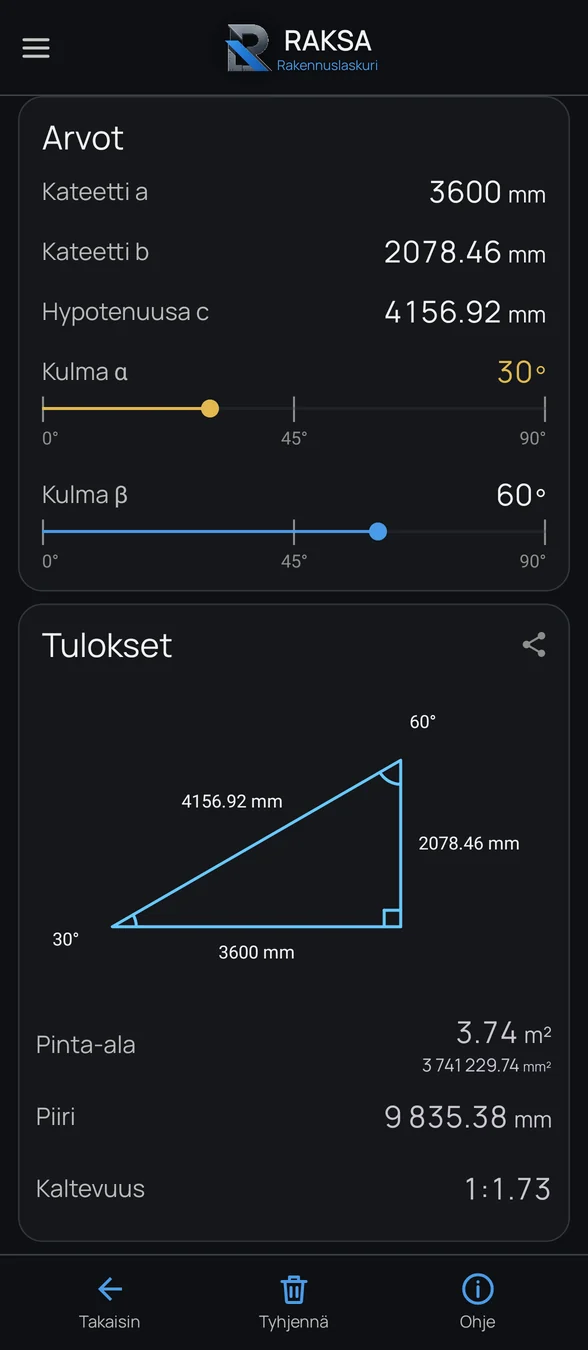
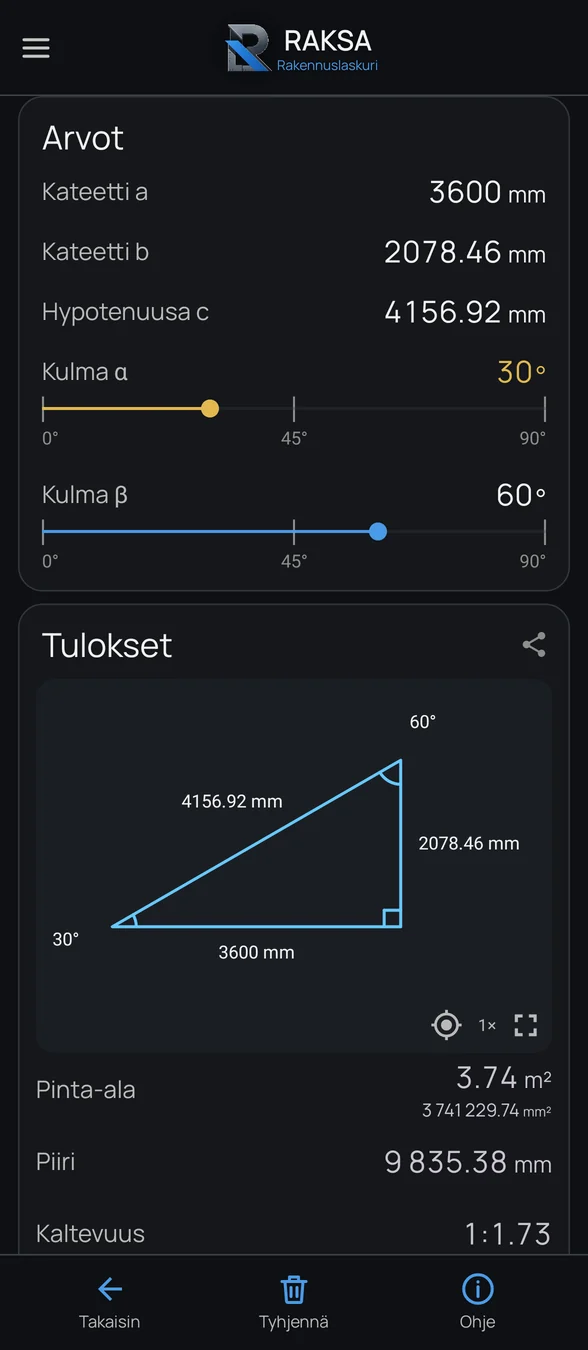
Update website to app version 1.3.14
- Home: new "03 Pinta-alat / Areas" tool card (room shapes, named
  openings, interactive 3D view), keypad calculations feature, triangle
  zoom/full screen, planned list now Volumes and Material usage
- New screenshots rendered from app 1.3.14 for all three calculators
  (FI/EN, light/dark); social preview shows the three tools
- Privacy: areas works offline; entered calculations listed among
  processed data; last-updated 20.11.2026
- Support: problem report mentions areas and its room shape
- Version 1.3.14 in footers, script and privacy metadata; features grid
  balanced to three columns on wide screens

Claude-Session: https://claude.ai/code/session_01RPndgq7MaFfFhrsPx3GJA2

Changed region(s): [[0.6429, 0.7467, 0.949, 0.9333], [0.0612, 0.7467, 0.2449, 0.9333], [0.1837, 0.7467, 0.2143, 0.8089]]

diff --git a/raksa/privacy.html b/raksa/privacy.html
@@ -13,7 +13,7 @@
 <link rel="icon" type="image/png" sizes="192x192" href="assets/icon-192.png">
 <link rel="apple-touch-icon" href="assets/apple-touch-icon.png">
 <link rel="preload" href="assets/fonts/manrope-regular.woff2" as="font" type="font/woff2" crossorigin>
-<link rel="stylesheet" href="style.css?v=26">
+<link rel="stylesheet" href="style.css?v=27">
 <meta property="og:type" content="website">
 <meta property="og:site_name" content="Raksa">
 <meta property="og:title" content="Raksa | Tietosuojaseloste" data-i18n-content="privacyPageTitle">
@@ -21,7 +21,7 @@
 <meta property="og:url" content="https://www.rikalo.fi/raksa/privacy.html">
 <meta property="og:image" content="https://www.rikalo.fi/raksa/assets/social-preview.png">
 <meta name="twitter:card" content="summary_large_image">
-<script src="site.js?v=26" defer></script>
+<script src="site.js?v=27" defer></script>
 </head>
 <body data-page="privacy">
 <a class="skip" href="#main" data-i18n="skip">Siirry sisältöön</a>
@@ -57,8 +57,8 @@
     <p class="lead" data-i18n="privacyLead">Raksa-Android-sovelluksen ja tämän verkkosivun tietojen käsittely</p>
     <dl class="privacy-meta">
       <div><dt data-i18n="metaPackage">Pakettitunnus</dt><dd>fi.rikalo.raksa</dd></div>
-      <div><dt data-i18n="metaVersion">Sovellusversio</dt><dd>1.2.822</dd></div>
-      <div><dt data-i18n="metaUpdated">Päivitetty</dt><dd><time datetime="2026-11-18">18.11.2026</time></dd></div>
+      <div><dt data-i18n="metaVersion">Sovellusversio</dt><dd>1.3.14</dd></div>
+      <div><dt data-i18n="metaUpdated">Päivitetty</dt><dd><time datetime="2026-11-20">20.11.2026</time></dd></div>
     </dl>
   </div>
 
@@ -67,13 +67,13 @@
 
     <section id="yhteystiedot"><h2>1. Rekisterinpitäjä ja yhteystiedot</h2><p>Raksa-sovelluksen tietojen käsittelystä vastaa sovelluksen kehittäjä. Kehittäjän nimi ja sähköpostiosoite tietosuojakysymyksiä varten:</p><p data-contact="controller"><button type="button" class="reveal">Näytä yhteystiedot</button></p><p>Verkkosivu: <a href="https://www.rikalo.fi/raksa/">https://www.rikalo.fi/raksa/</a></p><noscript><p>Yhteystiedot näkyvät, kun JavaScript on käytössä.</p></noscript></section>
 
-    <section><h2>2. Sovelluksen käsittelemät tiedot</h2><p>Raksa käsittelee vain sovelluksen toimintaan tarvittavia tietoja:</p><ul><li>laskureihin syötetyt arvot ja laskinten tila</li><li>asetukset: mittayksikkö, desimaalit, teema, kieli ja mitoituksen asetukset</li><li>tieto siitä, että olet hyväksynyt automaattisen käännöksen huomautuksen</li><li>automaattisesti käännetyn kielen käännetyt sovellustekstit.</li></ul><p>Sovellus ei pyydä nimeä, sähköpostiosoitetta, sijaintia, yhteystietoja tai muita henkilötietoja, eikä siinä ole käyttäjätiliä.</p></section>
+    <section><h2>2. Sovelluksen käsittelemät tiedot</h2><p>Raksa käsittelee vain sovelluksen toimintaan tarvittavia tietoja:</p><ul><li>laskureihin syötetyt arvot, kenttiin kirjoitetut laskut ja laskinten tila</li><li>asetukset: mittayksikkö, desimaalit, teema, kieli ja mitoituksen asetukset</li><li>tieto siitä, että olet hyväksynyt automaattisen käännöksen huomautuksen</li><li>automaattisesti käännetyn kielen käännetyt sovellustekstit.</li></ul><p>Sovellus ei pyydä nimeä, sähköpostiosoitetta, sijaintia, yhteystietoja tai muita henkilötietoja, eikä siinä ole käyttäjätiliä.</p></section>
 
     <section><h2>3. Paikallinen tallennus</h2><p>Tiedot tallennetaan sovelluksen yksityiseen tallennustilaan laitteessa:</p><ul><li>asetukset, kielivalinta ja laskinten tila</li><li>automaattisesti käännetyn kielen käännetyt sovellustekstit</li><li>ML Kitin kielimalli (noin 30 Mt), jota ML Kit hallitsee</li><li>jaettava tuloskuva sovelluksen väliaikaisessa välimuistissa.</li></ul></section>
 
     <section><h2>4. Android-käyttöoikeudet</h2><p>Sovellus käyttää kahta tavallista käyttöoikeutta, joita Android ei kysy erikseen:</p><ul><li><strong>Internet</strong> (INTERNET): automaattisesti käännetyn kielen kielimallin lataus ja ML Kitin diagnostiikka</li><li><strong>Verkon tila</strong> (ACCESS_NETWORK_STATE): verkkoyhteyden tarkistus ennen kielimallin latausta.</li></ul><p>Sovellus ei pyydä sijainti-, kamera-, mikrofoni-, yhteystieto-, tiedosto-, ilmoitus- tai tilioikeuksia.</p></section>
 
-    <section><h2>5. Verkkoyhteys ja Google ML Kit Translation</h2><p>Kolmiolaskin, Mitoitus, suomi, englanti, asetukset, tallennus, kopiointi ja jakaminen toimivat ilman verkkoyhteyttä.</p><p>Suomi ja englanti ovat sovelluksen omia käännöksiä. Muut kielet käännetään automaattisesti Google ML Kit Translation -kirjastolla (käännökset tuottaa Google Translate). Kun valitset tällaisen kielen, sovellus näyttää ensin huomautuksen. Hyväksynnän jälkeen kielimalli ladataan Googlen palvelimilta kerran, mikä vaatii verkkoyhteyden. Käännös tehdään laitteessa, ja vain sovelluksen omat tekstit käännetään. Laskenta- ja mittaustietoja tai syöttämiäsi arvoja ei lähetetä käännettäväksi.</p><p>ML Kit kerää käännöstoiminnon yhteydessä diagnostiikka- ja käyttötietoja ja lähettää ne Googlelle. Googlen ilmoituksen mukaan tietoja ovat esimerkiksi laitetiedot (valmistaja, malli ja käyttöjärjestelmän versio), sovelluksen pakettinimi ja versio, asennuskohtaiset tunnisteet, suorituskykymittarit, tapahtumatyypit ja virhekoodit sekä valitut lähde- ja kohdekielet. Googlen mukaan tiedot salataan siirron aikana (HTTPS), eikä niitä luovuteta kolmansille osapuolille. Google käsittelee tietoja omien ehtojensa mukaisesti; lisätietoja: <a href="https://developers.google.com/ml-kit/android-data-disclosure">ML Kitin tietojen käsittely</a> ja <a href="https://developers.google.com/ml-kit/terms">ML Kitin käyttöehdot</a>.</p></section>
+    <section><h2>5. Verkkoyhteys ja Google ML Kit Translation</h2><p>Kolmiolaskin, Mitoitus, Pinta-alat, suomi, englanti, asetukset, tallennus, kopiointi ja jakaminen toimivat ilman verkkoyhteyttä.</p><p>Suomi ja englanti ovat sovelluksen omia käännöksiä. Muut kielet käännetään automaattisesti Google ML Kit Translation -kirjastolla (käännökset tuottaa Google Translate). Kun valitset tällaisen kielen, sovellus näyttää ensin huomautuksen. Hyväksynnän jälkeen kielimalli ladataan Googlen palvelimilta kerran, mikä vaatii verkkoyhteyden. Käännös tehdään laitteessa, ja vain sovelluksen omat tekstit käännetään. Laskenta- ja mittaustietoja tai syöttämiäsi arvoja ei lähetetä käännettäväksi.</p><p>ML Kit kerää käännöstoiminnon yhteydessä diagnostiikka- ja käyttötietoja ja lähettää ne Googlelle. Googlen ilmoituksen mukaan tietoja ovat esimerkiksi laitetiedot (valmistaja, malli ja käyttöjärjestelmän versio), sovelluksen pakettinimi ja versio, asennuskohtaiset tunnisteet, suorituskykymittarit, tapahtumatyypit ja virhekoodit sekä valitut lähde- ja kohdekielet. Googlen mukaan tiedot salataan siirron aikana (HTTPS), eikä niitä luovuteta kolmansille osapuolille. Google käsittelee tietoja omien ehtojensa mukaisesti; lisätietoja: <a href="https://developers.google.com/ml-kit/android-data-disclosure">ML Kitin tietojen käsittely</a> ja <a href="https://developers.google.com/ml-kit/terms">ML Kitin käyttöehdot</a>.</p></section>
 
     <section><h2>6. Kopiointi ja tulosten jakaminen</h2><p>Kun napautat tulosarvoa, Raksa kopioi luvun Androidin leikepöydälle. Leikepöytää hallitsee käyttöjärjestelmä.</p><p>Kun valitset tulosten jakamisen, Raksa piirtää tuloskortista kuvan sovelluksen väliaikaiseen välimuistiin ja avaa Androidin jakovalikon. Kuva siirtyy vain valitsemaasi sovellukseen tai palveluun, ja siihen sovelletaan sen ehtoja. Raksa ei lähetä kuvaa itse.</p></section>
 
@@ -95,13 +95,13 @@
 
     <section id="contact"><h2>1. Controller and contact</h2><p>The developer of the app is responsible for Raksa's data handling. The developer's name and email address for privacy questions:</p><p data-contact="controller"><button type="button" class="reveal">Show contact details</button></p><p>Website: <a href="https://www.rikalo.fi/raksa/">https://www.rikalo.fi/raksa/</a></p><noscript><p>Contact details are shown when JavaScript is enabled.</p></noscript></section>
 
-    <section><h2>2. Data processed by the app</h2><p>Raksa processes only the information the app needs to work:</p><ul><li>values entered in the calculators and calculator state</li><li>settings: measurement unit, decimal places, theme, language and dimensioning settings</li><li>a record that you have accepted the automatic translation notice</li><li>the translated app texts for an automatically translated language.</li></ul><p>The app does not ask for your name, email address, location, contacts or other personal data, and it has no user account.</p></section>
+    <section><h2>2. Data processed by the app</h2><p>Raksa processes only the information the app needs to work:</p><ul><li>values and calculations entered in the calculators, and calculator state</li><li>settings: measurement unit, decimal places, theme, language and dimensioning settings</li><li>a record that you have accepted the automatic translation notice</li><li>the translated app texts for an automatically translated language.</li></ul><p>The app does not ask for your name, email address, location, contacts or other personal data, and it has no user account.</p></section>
 
     <section><h2>3. Local storage</h2><p>The information is stored in the app's private storage on the device:</p><ul><li>settings, language choice and calculator state</li><li>the translated app texts for an automatically translated language</li><li>the ML Kit language model (about 30 MB), managed by ML Kit</li><li>a shareable result image in the app's temporary cache.</li></ul></section>
 
     <section><h2>4. Android permissions</h2><p>The app uses two normal permissions that Android does not ask you about separately:</p><ul><li><strong>Internet</strong> (INTERNET): downloading the language model for an automatically translated language, and ML Kit diagnostics</li><li><strong>Network state</strong> (ACCESS_NETWORK_STATE): checking the connection before the language model is downloaded.</li></ul><p>The app does not request location, camera, microphone, contacts, file, notification or account permissions.</p></section>
 
-    <section><h2>5. Network use and Google ML Kit Translation</h2><p>The triangle calculator, dimensioning, Finnish, English, settings, saving, copying and sharing all work without an internet connection.</p><p>Finnish and English are the app's own translations. Other languages are translated automatically with the Google ML Kit Translation library (translations powered by Google Translate). When you choose such a language, the app first shows a notice. After you accept it, the language model is downloaded from Google's servers once, which requires a network connection. Translation happens on the device, and only the app's own texts are translated. Calculation and measurement data and the values you enter are not sent for translation.</p><p>In connection with the translation feature, ML Kit collects diagnostic and usage data and sends it to Google. According to Google, this includes device information (manufacturer, model and operating system version), the app's package name and version, per-installation identifiers, performance metrics, event types and error codes, and the selected source and target languages. According to Google, the data is encrypted in transit (HTTPS) and is not transferred to third parties. Google processes the data under its own terms; more information: <a href="https://developers.google.com/ml-kit/android-data-disclosure">ML Kit data disclosure</a> and <a href="https://developers.google.com/ml-kit/terms">ML Kit Terms of Service</a>.</p></section>
+    <section><h2>5. Network use and Google ML Kit Translation</h2><p>The triangle calculator, dimensioning, areas, Finnish, English, settings, saving, copying and sharing all work without an internet connection.</p><p>Finnish and English are the app's own translations. Other languages are translated automatically with the Google ML Kit Translation library (translations powered by Google Translate). When you choose such a language, the app first shows a notice. After you accept it, the language model is downloaded from Google's servers once, which requires a network connection. Translation happens on the device, and only the app's own texts are translated. Calculation and measurement data and the values you enter are not sent for translation.</p><p>In connection with the translation feature, ML Kit collects diagnostic and usage data and sends it to Google. According to Google, this includes device information (manufacturer, model and operating system version), the app's package name and version, per-installation identifiers, performance metrics, event types and error codes, and the selected source and target languages. According to Google, the data is encrypted in transit (HTTPS) and is not transferred to third parties. Google processes the data under its own terms; more information: <a href="https://developers.google.com/ml-kit/android-data-disclosure">ML Kit data disclosure</a> and <a href="https://developers.google.com/ml-kit/terms">ML Kit Terms of Service</a>.</p></section>
 
     <section><h2>6. Copying and sharing results</h2><p>When you tap a result value, Raksa copies the number to the Android clipboard. The clipboard is managed by the operating system.</p><p>When you choose to share results, Raksa draws an image of the result card into the app's temporary cache and opens the Android share sheet. The image goes only to the app or service you choose, and that recipient's terms apply. Raksa does not send the image itself.</p></section>
 
@@ -125,7 +125,7 @@
     <a href="./" data-i18n="home">Etusivu</a>
     <a href="support.html" data-i18n="support">Tuki</a>
   </nav>
-  <small><span data-i18n="version">Versio 1.2.822</span> · © 2026 Rikalo</small>
+  <small><span data-i18n="version">Versio 1.3.14</span> · © 2026 Rikalo</small>
 </footer>
 </body>
 </html>

diff --git a/raksa/site.js b/raksa/site.js
@@ -10,23 +10,23 @@
     fi: {
       skip: 'Siirry sisältöön', subtitle: 'Rakennuslaskuri', settings: 'Asetukset', language: 'Kieli', theme: 'Teema',
       system: 'Järjestelmä', light: 'Vaalea', dark: 'Tumma', privacy: 'Tietosuoja', home: 'Etusivu', support: 'Tuki', footerNav: 'Alatunniste',
-      version: 'Versio 1.2.822',
+      version: 'Versio 1.3.14',
       pageTitle: 'Raksa | Rakennuslaskuri',
-      pageDescription: 'Raksa on Android-sovellus suorakulmaisen kolmion laskentaan ja rakennustyön mitoitukseen. Laskimet toimivat ilman verkkoyhteyttä ja käyttäjätiliä.',
-      ogDescription: 'Kolmiolaskin ja mitoitus rakennustyön käytännön tilanteisiin. Laskimet toimivat ilman verkkoyhteyttä.',
-      ogImageAlt: 'Raksa-rakennuslaskurin logo ja mitoitusnäkymä',
+      pageDescription: 'Raksa on Android-sovellus suorakulmaisen kolmion laskentaan, rakennustyön mitoitukseen ja huoneen pinta-aloihin. Laskimet toimivat ilman verkkoyhteyttä ja käyttäjätiliä.',
+      ogDescription: 'Kolmiolaskin, mitoitus ja pinta-alat rakennustyön käytännön tilanteisiin. Laskimet toimivat ilman verkkoyhteyttä.',
+      ogImageAlt: 'Raksa-rakennuslaskurin logo ja pinta-alanäkymä',
       eyebrow: 'Android-sovellus rakentamiseen',
       title: 'Mitat ja jaot selkeästi työmaalla',
-      lead: 'Raksa ratkaisee suorakulmaisen kolmion ja laskee mittapisteet toistuville rakenteille, kuten tolppajaolle ja rimoitukselle. Laskimet toimivat ilman verkkoyhteyttä ja käyttäjätiliä.',
+      lead: 'Raksa ratkaisee suorakulmaisen kolmion, laskee mittapisteet toistuville rakenteille, kuten tolppajaolle ja rimoitukselle, sekä laskee huoneen pinta-alat. Laskimet toimivat ilman verkkoyhteyttä ja käyttäjätiliä.',
       explore: 'Katso työkalut', joinTest: 'Liity testaajaksi',
       status: 'Android 8.0 tai uudempi',
       playComing: 'Tulossa Google Playhin', playGet: 'Lataa Google Playsta',
-      toolsEyebrow: 'Työkalut', toolsTitle: 'Kolmiolaskin ja mitoitus',
+      toolsEyebrow: 'Työkalut', toolsTitle: 'Kolmiolaskin, mitoitus ja pinta-alat',
       triangleTitle: 'Kolmiolaskin',
       triangleText: 'Anna kaksi arvoa, joista ainakin toinen on sivu. Raksa laskee muut sivut, kulmat, pinta-alan, piirin ja kaltevuuden jo kirjoittaessasi.',
       tri1: 'Esimerkiksi ristimitat, kattokaltevuus ja vinotuen pituus',
       tri2: 'Kulmasäädin pysähtyy yleisiin kaltevuuksiin, kuten 1:2 ja 30°',
-      tri3: 'Kolmion kuva näyttää mitat ja kulmat yhdellä silmäyksellä',
+      tri3: 'Kolmion kuvaa voi zoomata ja tarkastella koko näytössä',
       triangleAlt: 'Raksan kolmiolaskin: kateetti 3600 mm ja kulma 30°, tuloksena kolmion kuva, pinta-ala, piiri ja kaltevuus',
       dimTitle: 'Mitoitus',
       dimText: 'Laske mittapisteet ja materiaalien paikat aloituksen, jaon, mitan tai pisteiden määrän perusteella. Tulos päivittyy heti, kun muutat arvoja.',
@@ -34,6 +34,12 @@
       dim2: 'Materiaalin vahvuus, keskitys ja lukittava kokonaismitta',
       dim3: 'Mittajana, jota voi zoomata koko näytössä, ja mittapisteiden lista',
       dimensionsAlt: 'Raksan mitoitus: Mitoitettu-tila, mitta 3000 mm, jako 600 mm ja materiaali 48 mm, tuloksena mittajana ja mittapisteet',
+      areasTitle: 'Pinta-alat',
+      areasText: 'Laske huoneen lattian, katon ja seinien pinta-alat. Valitse huoneen muoto ja anna mitat – kaksi mittaa riittää alkuun.',
+      area1: 'Suorakulmainen, L-muotoinen, pyöreä, vino katto ja harjakatto',
+      area2: 'Ovet, ikkunat ja muut aukot vähennetään nimettävinä aukkoina',
+      area3: '3D-kuva huoneesta: käännä, zoomaa ja muuta mittoja vetämällä',
+      areasAlt: 'Raksan pinta-alat: suorakulmainen huone 4000 × 3000 × 2500 mm, 3D-kuva ja tulokset, lattia ja katto 12 m², seinät 35 m²',
       featuresEyebrow: 'Ominaisuudet', featuresTitle: 'Tehty käytännön työhön',
       f1Title: 'Laskimet ilman verkkoyhteyttä',
       f1Text: 'Laskenta tapahtuu puhelimessa, eikä käyttäjätiliä tarvita. Verkkoyhteys tarvitaan vain, kun otat käyttöön automaattisesti käännetyn kielen.',
@@ -45,9 +51,11 @@
       f4Text: 'Yksiköt millimetreistä kilometreihin, 0–3 desimaalia sekä järjestelmän, vaalea tai tumma teema.',
       f5Title: 'Kielet',
       f5Text: 'Sovellus on suomeksi ja englanniksi. Lisäksi yli 50 kieltä on saatavilla automaattisena käännöksenä, joka voi olla epätarkka.',
+      f6Title: 'Laskut suoraan kenttään',
+      f6Text: 'Raksan oma laskinnäppäimistö: kirjoita kenttään lasku, kuten 2400 ÷ 4 + 15, ja näet tuloksen heti.',
       development: 'Kehitys', grow: 'Raksa kasvaa harkitusti',
       growText: 'Raksaan on tulossa lisää työkaluja. Ne näkyvät jo sovelluksen etusivulla merkinnällä Tulossa.',
-      next1: 'Pinta-alat ja tilavuudet', next2: 'Materiaalimenekit', next3: 'Lisää rakentamisen laskureita ja käytännön työkaluja',
+      next1: 'Tilavuudet', next2: 'Materiaalimenekit', next3: 'Lisää rakentamisen laskureita ja käytännön työkaluja',
       notice: 'Raksa on laskennan ja mitoituksen apuväline. Tarkista syötetyt arvot, tulokset ja kriittiset mitat ennen työn toteuttamista.',
       privacyPageTitle: 'Raksa | Tietosuojaseloste',
       privacyDescription: 'Raksa-Android-sovelluksen ja raksa-verkkosivun tietosuojaseloste.',
@@ -65,23 +73,23 @@
     en: {
       skip: 'Skip to content', subtitle: 'Construction calculator', settings: 'Settings', language: 'Language', theme: 'Theme',
       system: 'System', light: 'Light', dark: 'Dark', privacy: 'Privacy', home: 'Home', support: 'Support', footerNav: 'Footer',
-      version: 'Version 1.2.822',
+      version: 'Version 1.3.14',
       pageTitle: 'Raksa | Construction calculator',
-      pageDescription: 'Raksa is an Android app for right-triangle calculations and construction dimensioning. The calculators work offline and without a user account.',
-      ogDescription: 'Triangle calculator and dimensioning for practical construction work. The calculators work offline.',
-      ogImageAlt: 'Raksa construction calculator logo and dimensioning screen',
+      pageDescription: 'Raksa is an Android app for right-triangle calculations, construction dimensioning and room areas. The calculators work offline and without a user account.',
+      ogDescription: 'Triangle calculator, dimensioning and room areas for practical construction work. The calculators work offline.',
+      ogImageAlt: 'Raksa construction calculator logo and areas screen',
       eyebrow: 'Android app for construction',
       title: 'Clear measurements and layouts on site',
-      lead: 'Raksa solves right triangles and calculates measurement points for repeating structures such as stud and batten spacing. The calculators work offline and without a user account.',
+      lead: 'Raksa solves right triangles, calculates measurement points for repeating structures such as stud and batten spacing, and works out room areas. The calculators work offline and without a user account.',
       explore: 'View the tools', joinTest: 'Become a tester',
       status: 'Android 8.0 or later',
       playComing: 'Coming to Google Play', playGet: 'Get it on Google Play',
-      toolsEyebrow: 'Tools', toolsTitle: 'Triangle calculator and dimensioning',
+      toolsEyebrow: 'Tools', toolsTitle: 'Triangle calculator, dimensioning and areas',
       triangleTitle: 'Triangle calculator',
       triangleText: 'Enter two values, at least one of them a side. Raksa calculates the remaining sides, angles, area, perimeter and slope ratio as you type.',
       tri1: 'For example diagonal checks, roof pitch and brace length',
       tri2: 'The angle slider snaps to common slopes such as 1:2 and 30°',
-      tri3: 'A triangle diagram shows the dimensions and angles at a glance',
+      tri3: 'The triangle diagram can be zoomed and viewed in full screen',
       triangleAlt: 'Raksa triangle calculator: leg 3600 mm and angle 30°, with the triangle diagram, area, perimeter and slope ratio',
       dimTitle: 'Dimensioning',
       dimText: 'Calculate measurement points and material positions from a start, spacing, dimension or number of points. The result updates as soon as you change a value.',
@@ -89,6 +97,12 @@
       dim2: 'Material thickness, centering and a lockable overall dimension',
       dim3: 'A measurement line you can zoom in full screen, and a list of points',
       dimensionsAlt: 'Raksa dimensioning: Dimensioned mode, dimension 3000 mm, spacing 600 mm and material 48 mm, with the measurement line and points',
+      areasTitle: 'Areas',
+      areasText: 'Calculate the floor, ceiling and wall areas of a room. Choose the room shape and enter the dimensions – two dimensions are enough to start.',
+      area1: 'Rectangular, L-shaped, round, sloped roof and gable roof',
+      area2: 'Doors, windows and other openings are subtracted as named openings',
+      area3: 'A 3D view of the room: rotate, zoom and change dimensions by dragging',
+      areasAlt: 'Raksa areas: a rectangular room of 4000 × 3000 × 2500 mm with a 3D view and results, floor and ceiling 12 m², walls 35 m²',
       featuresEyebrow: 'Features', featuresTitle: 'Built for practical work',
       f1Title: 'Calculators work offline',
       f1Text: 'Calculations run on your phone, and no user account is needed. A network connection is needed only when you set up an automatically translated language.',
@@ -100,9 +114,11 @@
       f4Text: 'Units from millimetres to kilometres, 0–3 decimal places, and a system, light or dark theme.',
       f5Title: 'Languages',
       f5Text: 'The app is in Finnish and English. More than 50 other languages are available as automatic translations, which may be inaccurate.',
+      f6Title: 'Calculations in the field',
+      f6Text: 'Raksa\'s own calculator keypad: type a calculation such as 2400 ÷ 4 + 15 into a field and see the result right away.',
       development: 'Development', grow: 'Raksa grows with purpose',
       growText: 'More tools are on the way. They already appear on the app\'s home screen as Coming soon.',
-      next1: 'Areas and volumes', next2: 'Material usage', next3: 'More construction calculators and practical tools',
+      next1: 'Volumes', next2: 'Material usage', next3: 'More construction calculators and practical tools',
       notice: 'Raksa is a calculation and dimensioning aid. Check entered values, results and critical dimensions before carrying out the work.',
       privacyPageTitle: 'Raksa | Privacy Policy',
       privacyDescription: 'Privacy Policy for the Raksa Android app and this website.',

diff --git a/raksa/index.html b/raksa/index.html
@@ -5,7 +5,7 @@
 <meta name="viewport" content="width=device-width,initial-scale=1">
 <script>(function(){var r=document.documentElement,t,l;try{t=localStorage.getItem('raksa-theme');l=localStorage.getItem('raksa-language')}catch(e){}if(t!=='light'&&t!=='dark')t='system';if(l!=='fi'&&l!=='en'){l=(navigator.languages||[navigator.language||'']).some(function(x){return /^fi(\b|-)/i.test(x)})?'fi':'en'}r.dataset.theme=t;r.dataset.resolvedTheme=t==='system'?(matchMedia('(prefers-color-scheme: dark)').matches?'dark':'light'):t;r.lang=l})();</script>
 <title>Raksa | Rakennuslaskuri</title>
-<meta name="description" content="Raksa on Android-sovellus suorakulmaisen kolmion laskentaan ja rakennustyön mitoitukseen. Laskimet toimivat ilman verkkoyhteyttä ja käyttäjätiliä." data-i18n-content="pageDescription">
+<meta name="description" content="Raksa on Android-sovellus suorakulmaisen kolmion laskentaan, rakennustyön mitoitukseen ja huoneen pinta-aloihin. Laskimet toimivat ilman verkkoyhteyttä ja käyttäjätiliä." data-i18n-content="pageDescription">
 <meta name="color-scheme" content="light dark">
 <meta name="theme-color" content="#F5F2EC">
 <link rel="canonical" href="https://www.rikalo.fi/raksa/">
@@ -13,20 +13,20 @@
 <link rel="icon" type="image/png" sizes="192x192" href="assets/icon-192.png">
 <link rel="apple-touch-icon" href="assets/apple-touch-icon.png">
 <link rel="preload" href="assets/fonts/manrope-regular.woff2" as="font" type="font/woff2" crossorigin>
-<link rel="stylesheet" href="style.css?v=26">
+<link rel="stylesheet" href="style.css?v=27">
 <meta property="og:type" content="website">
 <meta property="og:site_name" content="Raksa">
 <meta property="og:title" content="Raksa | Rakennuslaskuri" data-i18n-content="pageTitle">
-<meta property="og:description" content="Kolmiolaskin ja mitoitus rakennustyön käytännön tilanteisiin. Laskimet toimivat ilman verkkoyhteyttä." data-i18n-content="ogDescription">
+<meta property="og:description" content="Kolmiolaskin, mitoitus ja pinta-alat rakennustyön käytännön tilanteisiin. Laskimet toimivat ilman verkkoyhteyttä." data-i18n-content="ogDescription">
 <meta property="og:url" content="https://www.rikalo.fi/raksa/">
 <meta property="og:image" content="https://www.rikalo.fi/raksa/assets/social-preview.png">
 <meta property="og:image:width" content="1200">
 <meta property="og:image:height" content="630">
-<meta property="og:image:alt" content="Raksa-rakennuslaskurin logo ja mitoitusnäkymä" data-i18n-content="ogImageAlt">
+<meta property="og:image:alt" content="Raksa-rakennuslaskurin logo ja pinta-alanäkymä" data-i18n-content="ogImageAlt">
 <meta property="og:locale" content="fi_FI">
 <meta property="og:locale:alternate" content="en_US">
 <meta name="twitter:card" content="summary_large_image">
-<script src="site.js?v=26" defer></script>
+<script src="site.js?v=27" defer></script>
 </head>
 <body data-page="home">
 <a class="skip" href="#main" data-i18n="skip">Siirry sisältöön</a>
@@ -60,7 +60,7 @@
     <div class="hero-text">
       <p class="eyebrow" data-i18n="eyebrow">Android-sovellus rakentamiseen</p>
       <h1 data-i18n="title">Mitat ja jaot selkeästi työmaalla</h1>
-      <p class="lead" data-i18n="lead">Raksa ratkaisee suorakulmaisen kolmion ja laskee mittapisteet toistuville rakenteille, kuten tolppajaolle ja rimoitukselle. Laskimet toimivat ilman verkkoyhteyttä ja käyttäjätiliä.</p>
+      <p class="lead" data-i18n="lead">Raksa ratkaisee suorakulmaisen kolmion, laskee mittapisteet toistuville rakenteille, kuten tolppajaolle ja rimoitukselle, sekä laskee huoneen pinta-alat. Laskimet toimivat ilman verkkoyhteyttä ja käyttäjätiliä.</p>
       <div class="actions">
         <span class="button play-pending" data-play-store><svg class="play-icon" viewBox="0 0 24 24" aria-hidden="true"><path d="M7 4.5v15l12-7.5z"/></svg><span data-i18n="playComing">Tulossa Google Playhin</span></span>
         <a class="button primary" href="beta" data-i18n="joinTest">Liity testaajaksi</a>
@@ -73,7 +73,7 @@
   <section id="tools" class="tools container">
     <div class="section-heading">
       <p class="eyebrow" data-i18n="toolsEyebrow">Työkalut</p>
-      <h2 data-i18n="toolsTitle">Kolmiolaskin ja mitoitus</h2>
+      <h2 data-i18n="toolsTitle">Kolmiolaskin, mitoitus ja pinta-alat</h2>
     </div>
 
     <article class="tool">
@@ -84,7 +84,7 @@
         <ul>
           <li data-i18n="tri1">Esimerkiksi ristimitat, kattokaltevuus ja vinotuen pituus</li>
           <li data-i18n="tri2">Kulmasäädin pysähtyy yleisiin kaltevuuksiin, kuten 1:2 ja 30°</li>
-          <li data-i18n="tri3">Kolmion kuva näyttää mitat ja kulmat yhdellä silmäyksellä</li>
+          <li data-i18n="tri3">Kolmion kuvaa voi zoomata ja tarkastella koko näytössä</li>
         </ul>
       </div>
       <figure class="phone-shot">
@@ -107,6 +107,22 @@
         <img data-shot="dimensions" src="assets/screens/dimensions-light-fi.webp" width="588" height="1350" loading="lazy" decoding="async" alt="Raksan mitoitus: Mitoitettu-tila, mitta 3000 mm, jako 600 mm ja materiaali 48 mm, tuloksena mittajana ja mittapisteet" data-i18n-alt="dimensionsAlt">
       </figure>
     </article>
+
+    <article class="tool">
+      <div class="tool-text">
+        <span class="tool-number">03</span>
+        <h3 data-i18n="areasTitle">Pinta-alat</h3>
+        <p data-i18n="areasText">Laske huoneen lattian, katon ja seinien pinta-alat. Valitse huoneen muoto ja anna mitat – kaksi mittaa riittää alkuun.</p>
+        <ul>
+          <li data-i18n="area1">Suorakulmainen, L-muotoinen, pyöreä, vino katto ja harjakatto</li>
+          <li data-i18n="area2">Ovet, ikkunat ja muut aukot vähennetään nimettävinä aukkoina</li>
+          <li data-i18n="area3">3D-kuva huoneesta: käännä, zoomaa ja muuta mittoja vetämällä</li>
+        </ul>
+      </div>
+      <figure class="phone-shot">
+        <img data-shot="areas" src="assets/screens/areas-light-fi.webp" width="588" height="1350" loading="lazy" decoding="async" alt="Raksan pinta-alat: suorakulmainen huone 4000 × 3000 × 2500 mm, 3D-kuva ja tulokset, lattia ja katto 12 m², seinät 35 m²" data-i18n-alt="areasAlt">
+      </figure>
+    </article>
   </section>
 
   <section class="features container" aria-labelledby="featuresTitle">
@@ -120,6 +136,7 @@
       <li><h3 data-i18n="f3Title">Tallentuu automaattisesti</h3><p data-i18n="f3Text">Arvot ja asetukset ovat tallessa, kun avaat sovelluksen uudelleen. Tyhjennyksen voi perua.</p></li>
       <li><h3 data-i18n="f4Title">Omat asetukset</h3><p data-i18n="f4Text">Yksiköt millimetreistä kilometreihin, 0–3 desimaalia sekä järjestelmän, vaalea tai tumma teema.</p></li>
       <li><h3 data-i18n="f5Title">Kielet</h3><p data-i18n="f5Text">Sovellus on suomeksi ja englanniksi. Lisäksi yli 50 kieltä on saatavilla automaattisena käännöksenä, joka voi olla epätarkka.</p></li>
+      <li><h3 data-i18n="f6Title">Laskut suoraan kenttään</h3><p data-i18n="f6Text">Raksan oma laskinnäppäimistö: kirjoita kenttään lasku, kuten 2400 ÷ 4 + 15, ja näet tuloksen heti.</p></li>
     </ul>
   </section>
 
@@ -130,7 +147,7 @@
       <p data-i18n="growText">Raksaan on tulossa lisää työkaluja. Ne näkyvät jo sovelluksen etusivulla merkinnällä Tulossa.</p>
     </div>
     <ul class="future-list">
-      <li data-i18n="next1">Pinta-alat ja tilavuudet</li>
+      <li data-i18n="next1">Tilavuudet</li>
       <li data-i18n="next2">Materiaalimenekit</li>
       <li data-i18n="next3">Lisää rakentamisen laskureita ja käytännön työkaluja</li>
     </ul>
@@ -147,7 +164,7 @@
     <a href="privacy.html" data-i18n="privacy">Tietosuoja</a>
     <a href="support.html" data-i18n="support">Tuki</a>
   </nav>
-  <small><span data-i18n="version">Versio 1.2.822</span> · © 2026 Rikalo</small>
+  <small><span data-i18n="version">Versio 1.3.14</span> · © 2026 Rikalo</small>
 </footer>
 </body>
 </html>

diff --git a/raksa/support.html b/raksa/support.html
@@ -13,7 +13,7 @@
 <link rel="icon" type="image/png" sizes="192x192" href="assets/icon-192.png">
 <link rel="apple-touch-icon" href="assets/apple-touch-icon.png">
 <link rel="preload" href="assets/fonts/manrope-regular.woff2" as="font" type="font/woff2" crossorigin>
-<link rel="stylesheet" href="style.css?v=26">
+<link rel="stylesheet" href="style.css?v=27">
 <meta property="og:type" content="website">
 <meta property="og:site_name" content="Raksa">
 <meta property="og:title" content="Raksa | Tuki ja palaute" data-i18n-content="supportPageTitle">
@@ -21,7 +21,7 @@
 <meta property="og:url" content="https://www.rikalo.fi/raksa/support.html">
 <meta property="og:image" content="https://www.rikalo.fi/raksa/assets/social-preview.png">
 <meta name="twitter:card" content="summary_large_image">
-<script src="site.js?v=26" defer></script>
+<script src="site.js?v=27" defer></script>
 </head>
 <body data-page="support">
 <a class="skip" href="#main" data-i18n="skip">Siirry sisältöön</a>
@@ -61,7 +61,7 @@
   <div class="doc-body" data-lang="fi" lang="fi">
     <section class="summary"><h2>Ennen kuin otat yhteyttä</h2><p>Raksa vaatii Android 8.0:n tai uudemman. Sovelluksen versio näkyy Raksan Tietoja-sivulla. Laskurin Ohje-painikkeesta löytyy tarkempi käyttöohje.</p></section>
 
-    <section><h2>1. Ongelmaraportin sisältö</h2><p>Kun ilmoitat ongelmasta, kerro mahdollisuuksien mukaan:</p><ul><li>Raksa-sovelluksen versio</li><li>Android-versio</li><li>laitteen valmistaja ja malli</li><li>käytetty laskin (Kolmiolaskin tai Mitoitus)</li><li>Mitoituksen päätila (Jaotettu, Mitoitettu tai Sovitettu), jos ongelma liittyy Mitoitukseen</li><li>syötetyt arvot</li><li>odotettu tulos</li><li>todellinen tulos</li><li>vaiheet, joilla ongelman saa toistettua</li><li>kuvakaappaus, jos se ei sisällä arkaluonteisia tietojasi.</li></ul></section>
+    <section><h2>1. Ongelmaraportin sisältö</h2><p>Kun ilmoitat ongelmasta, kerro mahdollisuuksien mukaan:</p><ul><li>Raksa-sovelluksen versio</li><li>Android-versio</li><li>laitteen valmistaja ja malli</li><li>käytetty laskin (Kolmiolaskin, Mitoitus tai Pinta-alat)</li><li>Mitoituksen päätila (Jaotettu, Mitoitettu tai Sovitettu), jos ongelma liittyy Mitoitukseen, tai huoneen muoto, jos ongelma liittyy Pinta-aloihin</li><li>syötetyt arvot</li><li>odotettu tulos</li><li>todellinen tulos</li><li>vaiheet, joilla ongelman saa toistettua</li><li>kuvakaappaus, jos se ei sisällä arkaluonteisia tietojasi.</li></ul></section>
 
     <section id="yhteystiedot"><h2>2. Yhteystiedot</h2><p>Lähetä ongelmaraportti tai palaute sähköpostilla:</p><p data-contact="email"><button type="button" class="reveal">Näytä sähköpostiosoite</button></p><noscript><p>Sähköpostiosoite näkyy, kun JavaScript on käytössä.</p></noscript><p>Tietojen käsittely on kuvattu <a href="privacy.html">tietosuojaselosteessa</a>.</p></section>
 
@@ -77,7 +77,7 @@
   <div class="doc-body" data-lang="en" lang="en">
     <section class="summary"><h2>Before you contact us</h2><p>Raksa requires Android 8.0 or later. The app version is shown on Raksa's About page. Each calculator's Help button opens more detailed instructions.</p></section>
 
-    <section><h2>1. What to include in a problem report</h2><p>When you report a problem, please include where possible:</p><ul><li>the Raksa app version</li><li>the Android version</li><li>the device manufacturer and model</li><li>the calculator used (triangle calculator or dimensioning)</li><li>the dimensioning mode (Distributed, Dimensioned or Fitted), if the problem concerns dimensioning</li><li>the values you entered</li><li>the expected result</li><li>the actual result</li><li>steps to reproduce the problem</li><li>a screenshot, if it does not contain sensitive information.</li></ul></section>
+    <section><h2>1. What to include in a problem report</h2><p>When you report a problem, please include where possible:</p><ul><li>the Raksa app version</li><li>the Android version</li><li>the device manufacturer and model</li><li>the calculator used (triangle calculator, dimensioning or areas)</li><li>the dimensioning mode (Distributed, Dimensioned or Fitted), if the problem concerns dimensioning, or the room shape, if it concerns areas</li><li>the values you entered</li><li>the expected result</li><li>the actual result</li><li>steps to reproduce the problem</li><li>a screenshot, if it does not contain sensitive information.</li></ul></section>
 
     <section id="contact"><h2>2. Contact</h2><p>Send problem reports and feedback by email:</p><p data-contact="email"><button type="button" class="reveal">Show email address</button></p><noscript><p>The email address is shown when JavaScript is enabled.</p></noscript><p>Data handling is described in the <a href="privacy.html">Privacy Policy</a>.</p></section>
 
@@ -97,7 +97,7 @@
     <a href="./" data-i18n="home">Etusivu</a>
     <a href="privacy.html" data-i18n="privacy">Tietosuoja</a>
   </nav>
-  <small><span data-i18n="version">Versio 1.2.822</span> · © 2026 Rikalo</small>
+  <small><span data-i18n="version">Versio 1.3.14</span> · © 2026 Rikalo</small>
 </footer>
 </body>
 </html>

diff --git a/raksa/beta.html b/raksa/beta.html
@@ -13,7 +13,7 @@
 <link rel="icon" type="image/png" sizes="192x192" href="assets/icon-192.png">
 <link rel="apple-touch-icon" href="assets/apple-touch-icon.png">
 <link rel="preload" href="assets/fonts/manrope-regular.woff2" as="font" type="font/woff2" crossorigin>
-<link rel="stylesheet" href="style.css?v=26">
+<link rel="stylesheet" href="style.css?v=27">
 <meta property="og:type" content="website">
 <meta property="og:site_name" content="Raksa">
 <meta property="og:title" content="Raksa | Beta-testaus" data-i18n-content="betaPageTitle">
@@ -21,7 +21,7 @@
 <meta property="og:url" content="https://www.rikalo.fi/raksa/beta">
 <meta property="og:image" content="https://www.rikalo.fi/raksa/assets/social-preview.png">
 <meta name="twitter:card" content="summary_large_image">
-<script src="site.js?v=26" defer></script>
+<script src="site.js?v=27" defer></script>
 </head>
 <body data-page="beta">
 <a class="skip" href="#main" data-i18n="skip">Siirry sisältöön</a>
@@ -151,7 +151,7 @@
     <a href="support.html" data-i18n="support">Tuki</a>
     <a href="privacy.html" data-i18n="privacy">Tietosuoja</a>
   </nav>
-  <small><span data-i18n="version">Versio 1.2.822</span> · © 2026 Rikalo</small>
+  <small><span data-i18n="version">Versio 1.3.14</span> · © 2026 Rikalo</small>
 </footer>
 </body>
 </html>

diff --git a/raksa/style.css b/raksa/style.css
@@ -189,7 +189,7 @@ html[lang="fi"] [data-lang="en"], html[lang="en"] [data-lang="fi"] { display: no
 .testing-info ul, .testing-info ol { margin: 0 0 20px; padding-left: 1.3em; }
 .testing-info li { margin: 6px 0; }
 .features { padding: 48px 0; }
-.feature-grid { display: grid; grid-template-columns: repeat(auto-fit, minmax(200px, 1fr)); gap: 16px; margin: 0; padding: 0; list-style: none; }
+.feature-grid { display: grid; grid-template-columns: repeat(auto-fit, minmax(min(100%, 300px), 1fr)); gap: 16px; margin: 0; padding: 0; list-style: none; }
 .feature-grid li { padding: 24px; background: var(--surface); border: 1px solid var(--border); border-radius: var(--radius); }
 .feature-grid h3 { margin: 0 0 .5em; font-size: 1.15rem; }
 .feature-grid p { margin: 0; color: var(--muted); font-size: .95rem; }
